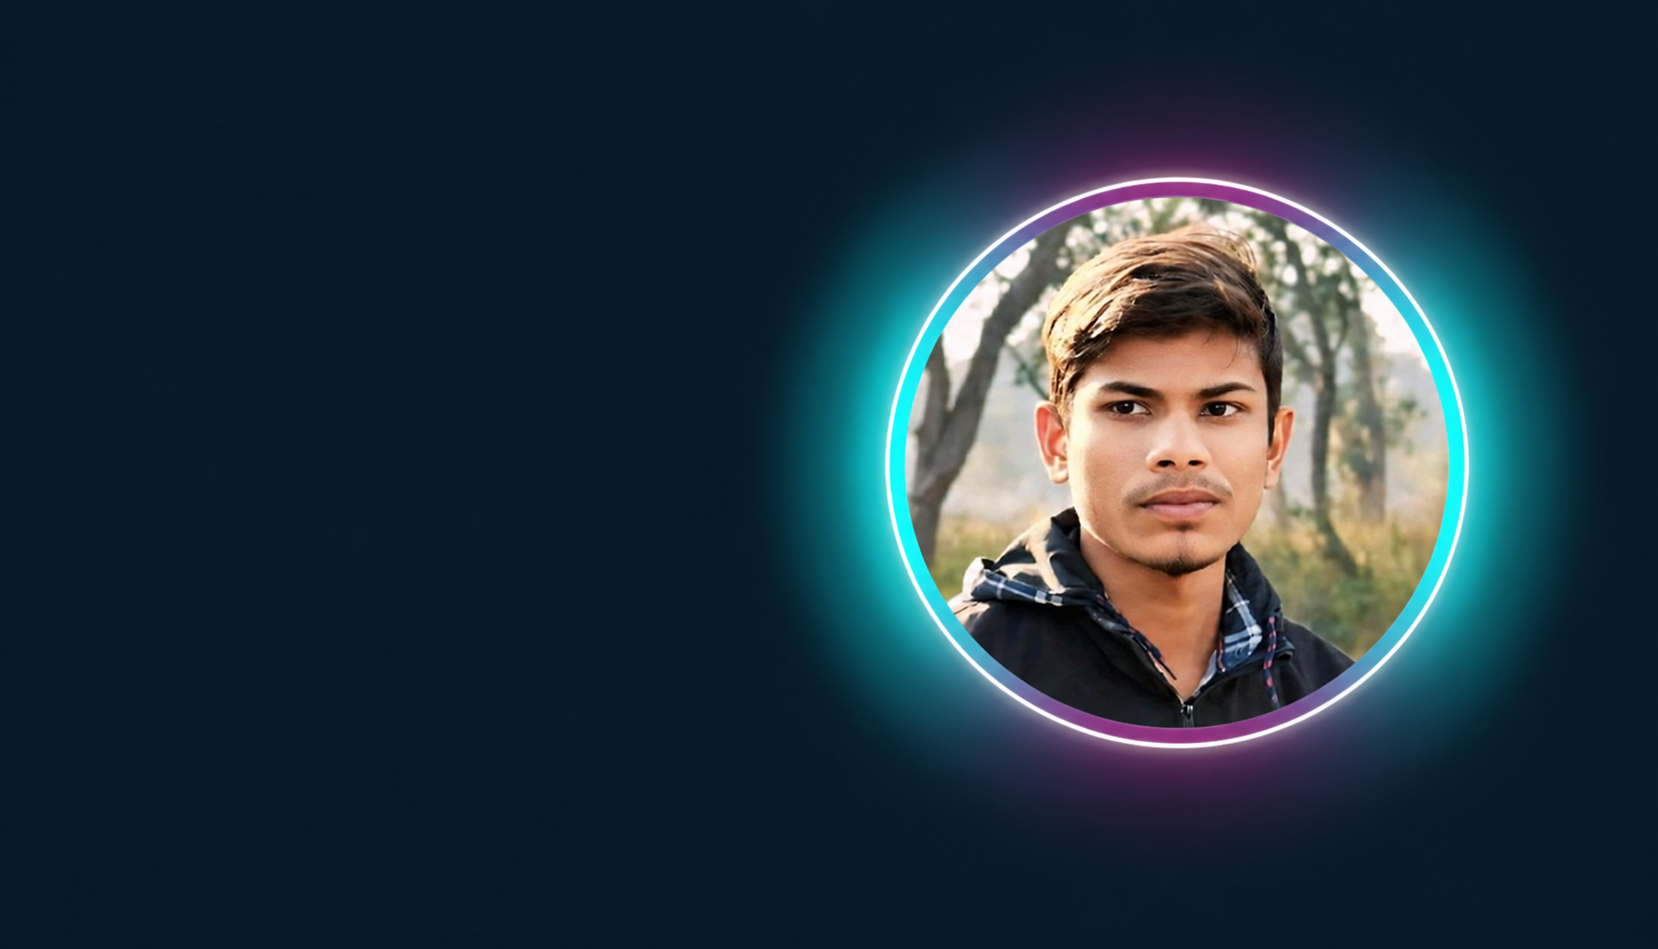
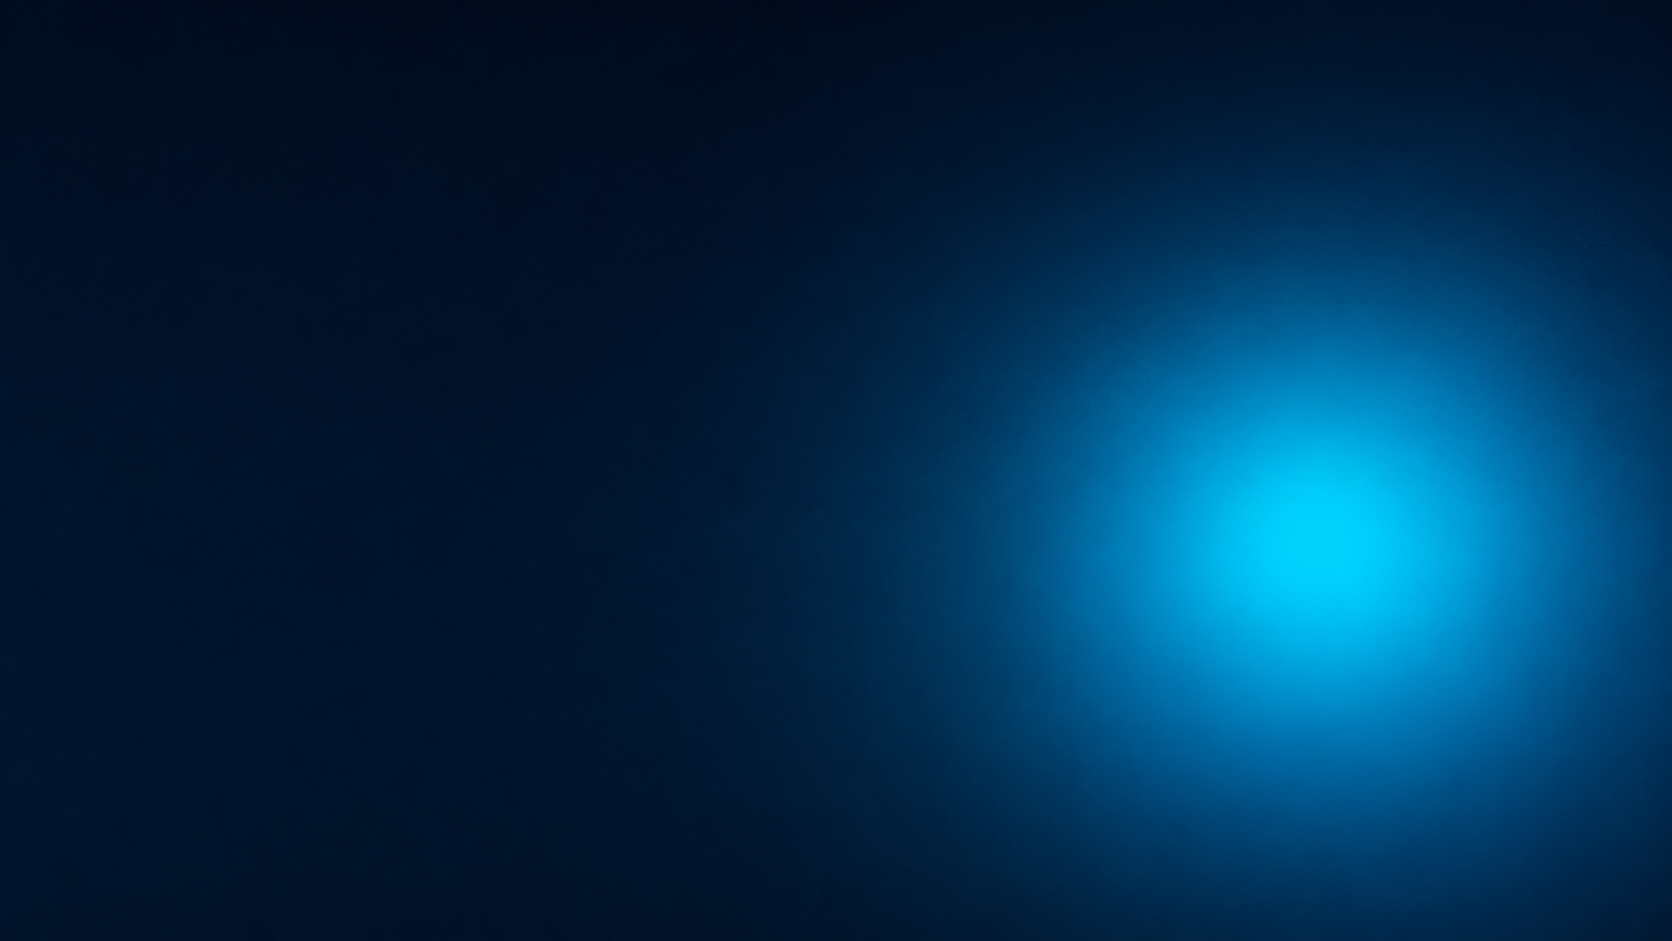
Matched Home section photo styling with About section

diff --git a/stylesheet.css b/stylesheet.css
@@ -16,7 +16,7 @@ html, body {
 /* ===== GLOBAL SECTION HEADING ===== */
 .heading {
     text-align: center;
-    font-size: 55px;
+    font-size: clamp(28px, 5vw, 55px);
     margin-bottom: 60px;
     color: #fff;
 }
@@ -67,18 +67,19 @@ html, body {
     color: #0ef;
 }
 
-/* ===== HOME SECTION (FIXED HEIGHT & EXTRA PAGE REMOVED) ===== */
+/* ===== HOME SECTION ===== */
 .home {
     position: relative;
     width: 100%;
-    height: 100vh;
+    min-height: 100vh;
     background: url('Purple Illustrated Mountain Desktop Wallpaper.png') no-repeat;
     background-size: cover;
     background-position: center;
     display: flex;
     align-items: center;
     justify-content: space-between;
-    padding: 80px 10% 0;
+    flex-wrap: wrap;
+    padding: 120px 10% 60px;
 }
 
 .home-content {
@@ -86,7 +87,7 @@ html, body {
 }
 
 .home-content h3 {
-    font-size: 32px;
+    font-size: clamp(20px, 3vw, 32px);
     font-weight: 700;
     opacity: 0;
     animation: slideBottom 1s ease forwards;
@@ -104,12 +105,13 @@ html, body {
 }
 
 .home-content h1 {
-    font-size: 52px;
+    font-size: clamp(30px, 5vw, 52px);
     font-weight: 700;
     margin: -3px 0;
     opacity: 0;
     animation: slideRight 1s ease forwards;
     animation-delay: 1s;
+    word-wrap: break-word;
 }
 
 .home-content p {
@@ -159,6 +161,7 @@ html, body {
     display: flex;
     align-items: center;
     gap: 6px;
+    flex-wrap: wrap;
     opacity: 0;
     animation: slideLeft 1s ease forwards;
     animation-delay: 1.8s;
@@ -184,36 +187,34 @@ html, body {
     box-shadow: 0 0 5px cyan, 0 0 25px cyan, 0 0 50px cyan, 0 0 100px cyan;
 }
 
-/* ===== HOME PROFILE IMAGE ===== */
-/* ===== HOME PROFILE IMAGE (ABOUT SECTION STYLE MATCH FIX) ===== */
+/* ===== HOME PROFILE IMAGE (FIXED: no more double/extra circle) ===== */
+ 
 .home-img {
     flex: 1;
     display: flex;
     justify-content: center;
     align-items: center;
     position: relative;
+    min-width: 250px;
 }
 
 .home-img img {
-    width: 350px;
-    height: 350px;
-    max-width: 80vw;
-    max-height: 80vw;
+    width: clamp(420px, 60vw, 450px);
+    height: clamp(420px, 60vw, 450px);
     border-radius: 50%;
     object-fit: cover;
-    object-position: center top;
-    transform: scale(1.22); /* Extra inner cyan ring ko crop out karne ke liye */
-    border: 4px solid #0ef !important;
+    object-position: center 20%;
+    border: 4px solid #0ef;
     box-shadow: 0 0 25px #0ef, 0 0 50px rgba(0, 238, 255, 0.5);
     transition: 0.4s ease;
     cursor: pointer;
-    overflow: hidden;
 }
 
 .home-img img:hover {
-    transform: translateY(-10px) scale(1.22);
+    transform: translateY(-10px);
     box-shadow: 0 0 35px #0ef, 0 0 70px #0ef;
 }
+
 /* ===== ANIMATIONS ===== */
 @keyframes slideRight {
     0% { transform: translateX(-100px); opacity: 0; }
@@ -242,6 +243,7 @@ html, body {
     align-items: center;
     gap: 70px;
     padding: 100px 10%;
+    flex-wrap: wrap;
     min-height: 100vh;
     background: #0f2d44;
 }
@@ -252,15 +254,16 @@ html, body {
     justify-content: center;
     align-items: center;
     position: relative;
+    min-width: 250px;
 }
 
 .about-img img {
-    width: 350px;
-    height: 350px;
+    width: clamp(220px, 30vw, 350px);
+    height: clamp(220px, 30vw, 350px);
     border-radius: 50%;
     object-fit: cover;
     object-position: center top;
-    border: 4px solid #0ef !important;
+    border: 4px solid #0ef;
     box-shadow: 0 0 25px #0ef, 0 0 50px rgba(0, 238, 255, 0.5);
     transition: 0.4s ease;
     cursor: pointer;
@@ -273,16 +276,17 @@ html, body {
 
 .about-content {
     flex: 1.5;
+    min-width: 280px;
 }
 
 .about-content h3 {
     color: #0ef;
-    font-size: 32px;
+    font-size: clamp(22px, 3vw, 32px);
     margin-bottom: 20px;
 }
 
 .about-content p {
-    font-size: 18px;
+    font-size: clamp(15px, 2vw, 18px);
     line-height: 1.8;
     color: #fff;
     margin-bottom: 20px;
@@ -297,7 +301,7 @@ html, body {
     align-items: center;
     gap: 12px;
     margin: 15px 0;
-    font-size: 18px;
+    font-size: clamp(14px, 2vw, 18px);
     word-break: break-word;
 }
 
@@ -309,6 +313,7 @@ html, body {
 .about-info i {
     color: #0ef;
     font-size: 22px;
+    flex-shrink: 0;
 }
 
 .about-content .btn-box {
@@ -505,6 +510,7 @@ html, body {
 .contact form .btn-box {
     cursor: pointer;
     display: inline-block;
+    border: none;
 }
 
 /* ===== FOOTER ===== */
@@ -521,20 +527,18 @@ html, body {
     .header {
         padding: 15px 5%;
     }
-    
+
     .navbar a {
         font-size: 18px;
         margin-left: 20px;
     }
 
-    .home, .about {
-        padding: 100px 5% 50px;
-        height: auto;
+    .home {
+        padding: 110px 5% 50px;
     }
 
-    .heading {
-        font-size: 40px;
-        margin-bottom: 40px;
+    .about {
+        padding: 80px 5% 50px;
     }
 }
 
@@ -543,6 +547,7 @@ html, body {
         flex-direction: column;
         gap: 12px;
         position: relative;
+        padding: 15px 5%;
     }
 
     .navbar {
@@ -561,26 +566,16 @@ html, body {
         flex-direction: column-reverse;
         justify-content: center;
         text-align: center;
-        height: auto;
         gap: 40px;
-        padding-top: 40px;
+        padding: 30px 5% 50px;
     }
 
-    .home-content h1 {
-        font-size: 38px;
-    }
-
-    .home-content h3 {
-        font-size: 24px;
+    .home-content {
+        max-width: 100%;
     }
 
     .home-sci, .location-text {
         justify-content: center;
-    }
-
-    .home-img img, .about-img img {
-        width: 270px;
-        height: 270px;
     }
 
     .about {
@@ -591,7 +586,6 @@ html, body {
 
     .about-info p {
         justify-content: center;
-        font-size: 15px;
     }
 
     .contact form .input-box {
@@ -601,20 +595,12 @@ html, body {
 }
 
 @media (max-width: 480px) {
-    .home-content h1 {
-        font-size: 30px;
-    }
-
-    .home-content p {
-        font-size: 15px;
-    }
-
-    .home-img img, .about-img img {
-        width: 220px;
-        height: 220px;
+    .navbar a {
+        font-size: 14px;
+        margin-left: 8px;
     }
 
     .heading {
-        font-size: 32px;
+        margin-bottom: 40px;
     }
 }

diff --git a/index.html b/index.html
@@ -60,7 +60,7 @@
             <a href="#about" class="btn-box">More About Me</a>
         </div>
         <div class="home-img">
-            <img src="profile.jpg" alt="">
+            <img src="abhi.jpeg" alt="">
         </div>
     </section>
 
